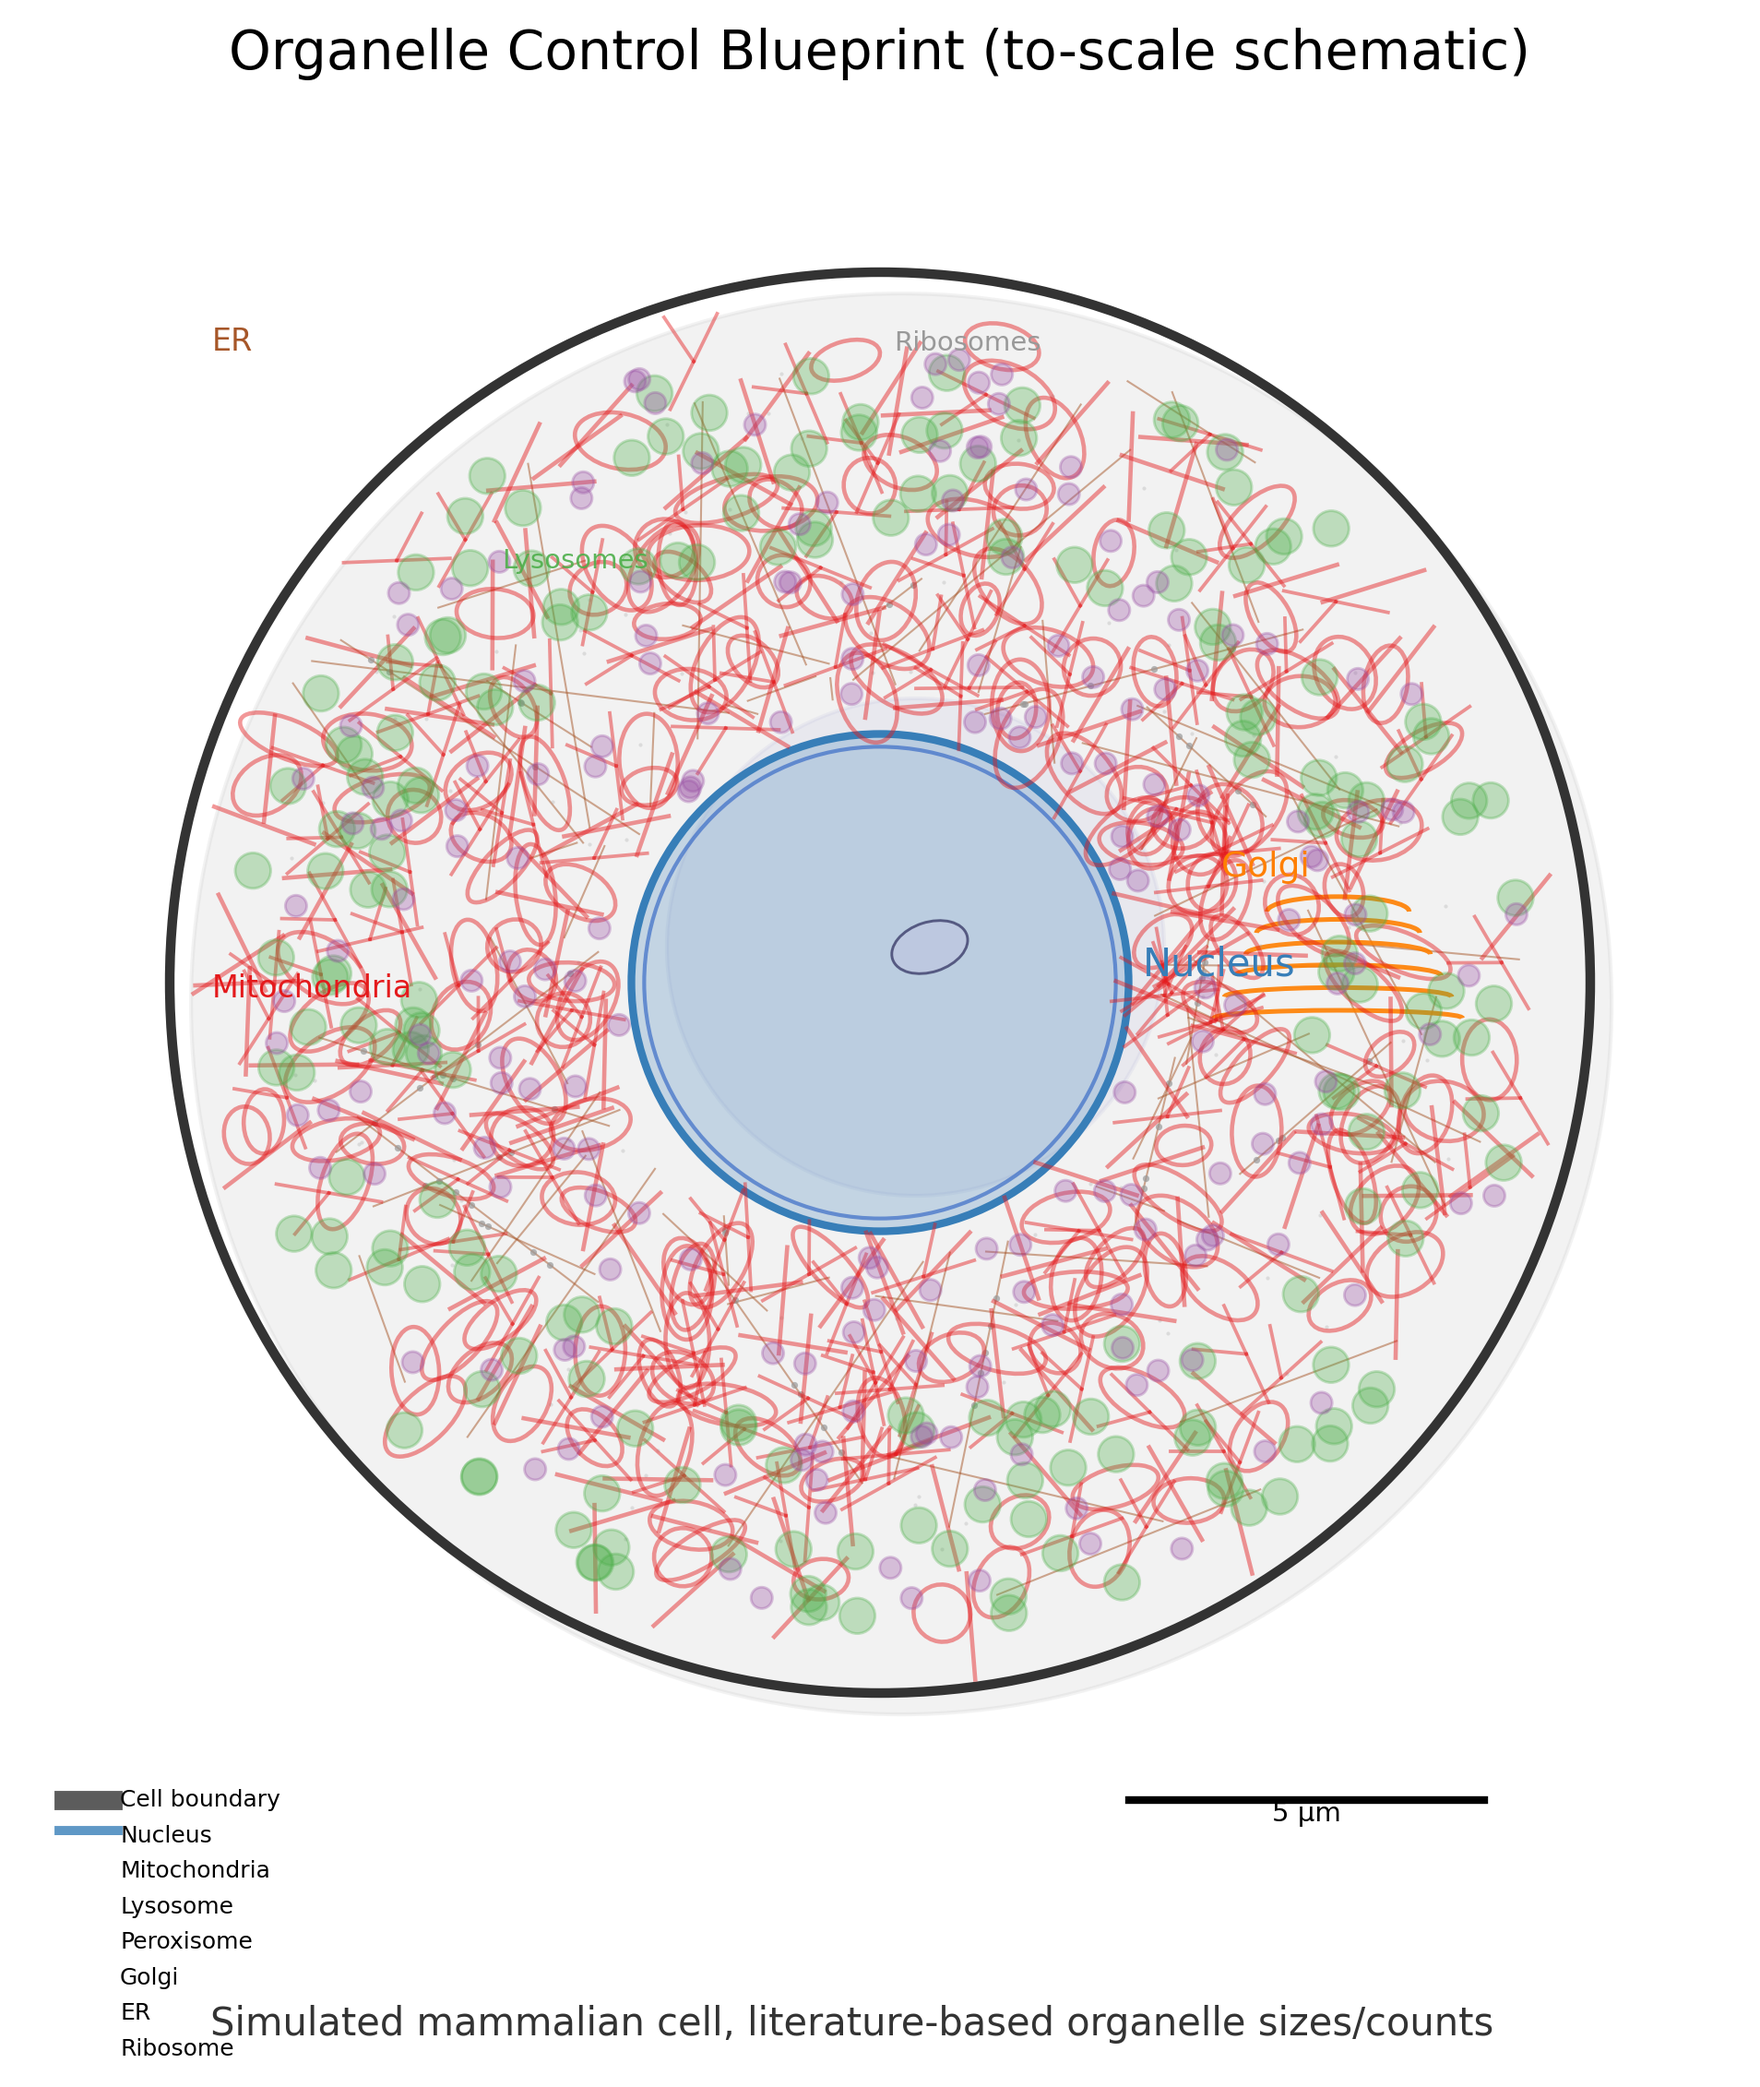
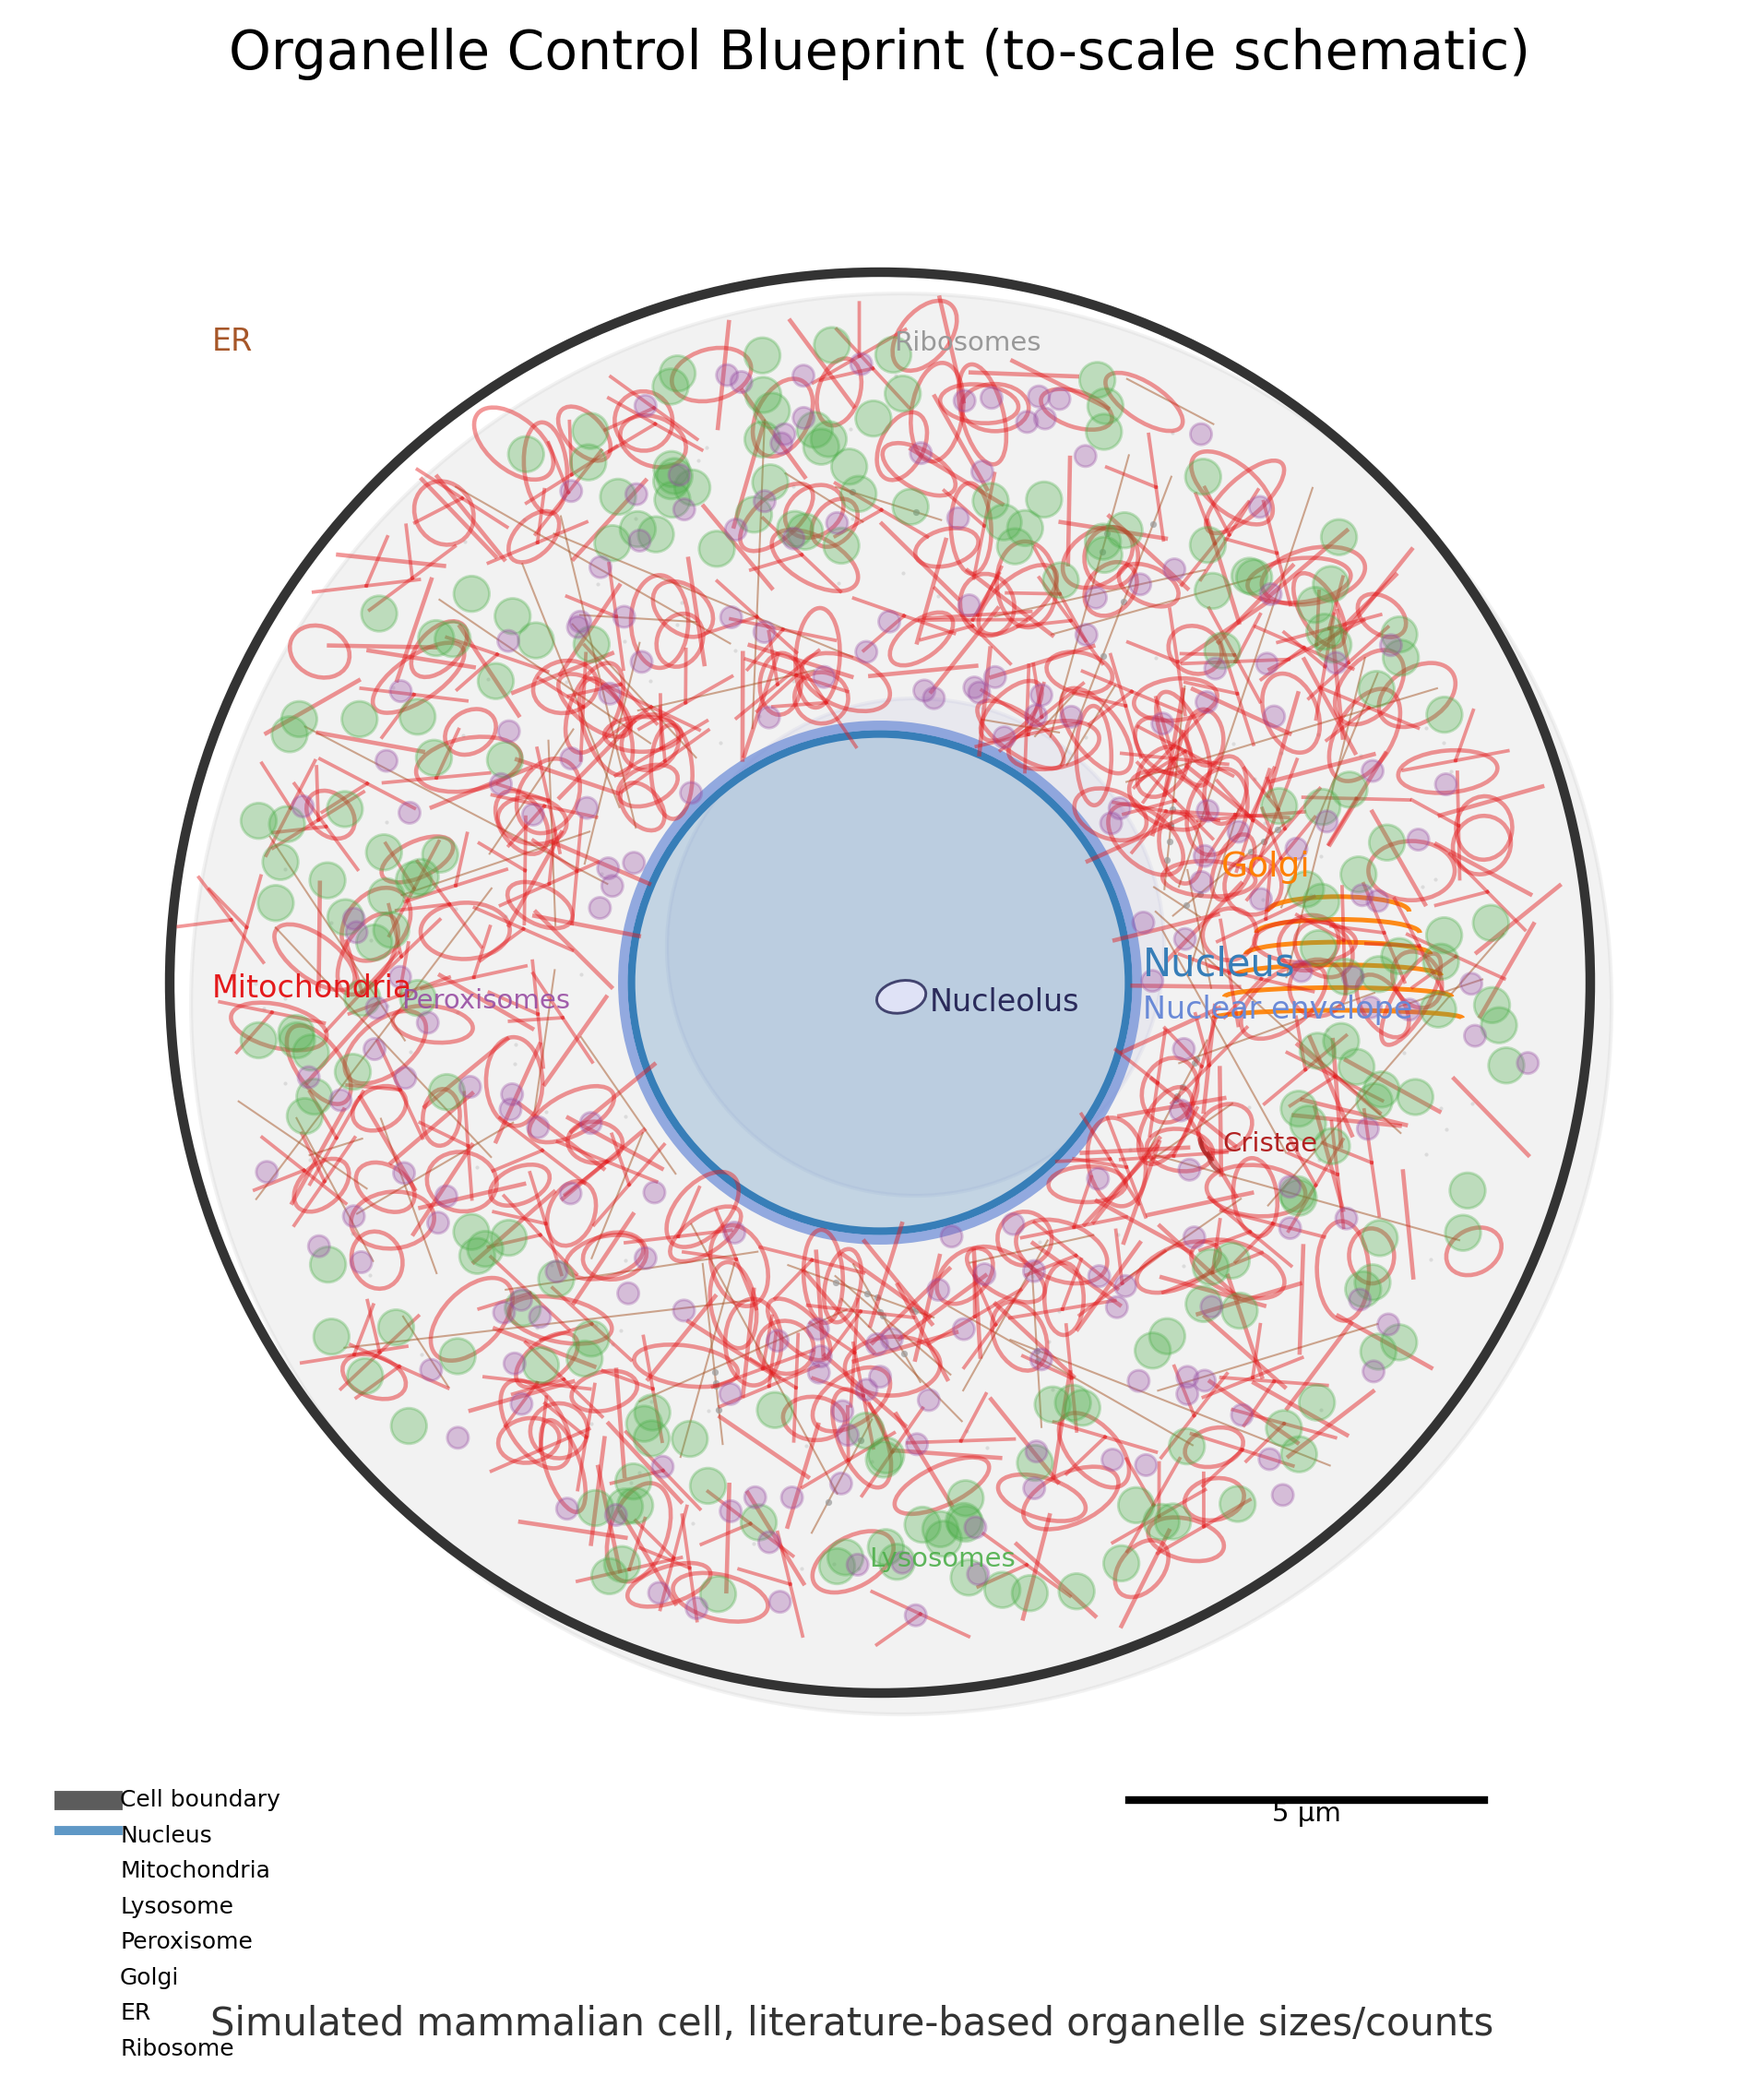
Enhance cell model: add nucleus/mitochondria sub-compartments, explicit ATP/ROS, and update visualization

Changed region(s): [[0.1237, 0.1547, 0.8968, 0.8046], [0.4948, 0.4642, 0.5875, 0.4951]]

diff --git a/cell_view.py b/cell_view.py
@@ -63,14 +63,20 @@ def render_cell_blueprint(state: Dict[str, float], outpath: str = "cell_blueprin
     cell = Circle((0, 0), radius=cell_r, fill=False, linewidth=2.5, edgecolor=PALETTE["boundary"], zorder=2)
     ax.add_patch(cell)
 
-    # --- Nucleus (double membrane, nucleolus, shadow)
+    # --- Nucleus (double membrane, nucleolus, shadow, envelope)
     nuc_r = ORGANELLE_SIZES["nucleus_diameter_um"] / 2.0
+    # Shadow
     ax.add_patch(Circle((0.5, 0.5), nuc_r, color="#bbbbdd", alpha=0.18, zorder=3))
+    # Main nucleus
     ax.add_patch(Circle((0, 0), nuc_r, fill=True, color=PALETTE["nucleus"], alpha=0.25, zorder=4))
     ax.add_patch(Circle((0, 0), nuc_r, fill=False, linewidth=2, edgecolor=PALETTE["nucleus"], zorder=5))
-    ax.add_patch(Circle((0, 0), nuc_r-0.18, fill=False, linewidth=1, edgecolor="#3a6cc7", alpha=0.7, zorder=5))
-    ax.add_patch(Ellipse((0.7, 0.5), width=1.1, height=0.7, angle=18, edgecolor="#2a2a5a", facecolor="#bfc6e0", alpha=0.7, linewidth=0.7, zorder=6))
+    # Nuclear envelope (thicker outline)
+    ax.add_patch(Circle((0, 0), nuc_r+0.12, fill=False, linewidth=2.5, edgecolor="#6a8ad7", alpha=0.7, zorder=5))
     ax.text(nuc_r + 0.2, 0.1, "Nucleus", fontsize=10, color=PALETTE["nucleus"], zorder=10)
+    ax.text(nuc_r + 0.2, -0.5, "Nuclear envelope", fontsize=8, color="#6a8ad7", zorder=10)
+    # Nucleolus (ellipse inside nucleus)
+    ax.add_patch(Ellipse((0.3, -0.2), width=0.7, height=0.45, angle=12, edgecolor="#2a2a5a", facecolor="#e6e6fa", alpha=0.85, linewidth=0.7, zorder=6))
+    ax.text(0.7, -0.4, "Nucleolus", fontsize=8, color="#2a2a5a", zorder=10)
 
     # --- Golgi (stacked cisternae)
     golgi_x = nuc_r + 1.2
@@ -111,10 +117,11 @@ def render_cell_blueprint(state: Dict[str, float], outpath: str = "cell_blueprin
                 ax.scatter([rx], [ry], s=3, c=PALETTE["ribosome"], alpha=0.7, linewidths=0, zorder=5)
     ax.text(-cell_r + 0.6, cell_r - 1.1, "ER", fontsize=8, color=PALETTE["er"], zorder=10)
 
-    # --- Mitochondria (rods, ovals, branched, transparency)
+    # --- Mitochondria (rods, ovals, branched, cristae, transparency)
     mito_count = ORGANELLE_COUNTS["mitochondria"]
     L = ORGANELLE_SIZES["mito_length_um"]
     mito_types = ["rod", "oval", "branched"]
+    cristae_drawn = False
     for i in range(mito_count):
         if i < mito_count // 3:
             r = np.random.uniform(nuc_r + 0.5, nuc_r + 2.0)
@@ -128,6 +135,15 @@ def render_cell_blueprint(state: Dict[str, float], outpath: str = "cell_blueprin
             dx = (L / 2) * np.cos(angle)
             dy = (L / 2) * np.sin(angle)
             ax.plot([x - dx, x + dx], [y - dy, y + dy], color=PALETTE["mitochondria"], linewidth=1.1, alpha=0.45, zorder=7)
+            # Draw cristae as arcs inside a few rods
+            if not cristae_drawn and np.random.rand() < 0.02:
+                for j in range(3):
+                    frac = np.random.uniform(0.2, 0.8)
+                    cx = x - dx + frac * 2 * dx
+                    cy = y - dy + frac * 2 * dy
+                    ax.add_patch(Arc((cx, cy), 0.3, 0.12, angle=np.degrees(angle), theta1=0, theta2=180, color="#b22222", lw=1, alpha=0.7, zorder=8))
+                ax.text(x + 0.2, y, "Cristae", fontsize=7, color="#b22222", zorder=10)
+                cristae_drawn = True
         elif mtype == "oval":
             width = L * np.random.uniform(0.5, 1.0)
             height = ORGANELLE_SIZES["mito_width_um"] * np.random.uniform(0.7, 1.2)

diff --git a/cell_model.py b/cell_model.py
@@ -3,8 +3,16 @@ def clamp(x: float, minval: float = 0.0, maxval: float = 1.0) -> float:
     return max(minval, min(maxval, x))
 
 def build_ocm():
-
     m = Model()
+    # --- Sub-compartments and explicit metabolites ---
+    # Nucleus substructure
+    m.add_node("Nucleolus", baseline=0.7, decay=0.08)
+    m.add_node("Nuclear_envelope", baseline=0.9, decay=0.05)
+    # Mitochondria substructure
+    m.add_node("Cristae", baseline=0.8, decay=0.07)
+    # Explicit metabolites
+    m.add_node("ATP", baseline=0.5, decay=0.15)
+    m.add_node("ROS_metabolite", baseline=0.4, decay=0.12)
     # Add all input nodes
     m.add_node("IN_fasting", value=0.0, baseline=0.0, decay=0.0)
     m.add_node("IN_endurance_exercise", value=0.0, baseline=0.0, decay=0.0)

diff --git a/cell_controller.py b/cell_controller.py
@@ -17,6 +17,7 @@ def run_simulation(model: Model,
             "AMPK", "mTORC1", "SIRT1", "SIRT3", "PGC1a", "TFEB", "NFkB", "ROS",
             "Mito_capacity", "Lysosome_capacity", "Autophagy_flux",
             "Proteasome_capacity", "ER_capacity", "Ribosome_capacity", "Peroxisome_capacity",
+            "Nucleolus", "Nuclear_envelope", "Cristae", "ATP", "ROS_metabolite",
             "OUT_ATP_capacity", "OUT_proteostasis", "OUT_lipofuscin_pressure", "OUT_inflammatory_pressure"
         ]
     history: Dict[str, List[float]] = {k: [] for k in track}
